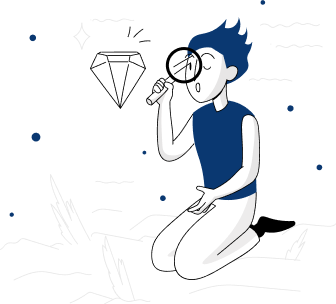
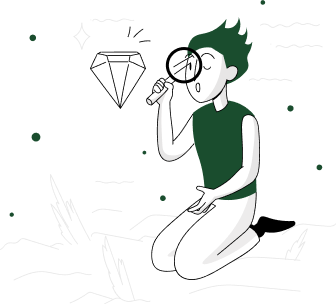
Style modifications

diff --git a/styles/style.css b/styles/style.css
@@ -1,10 +1,10 @@
 @import url('https://fonts.googleapis.com/css2?family=Inter&display=swap');
 
 :root{
-    --cor-primaria: #f3f5fc;
-    --cor-secundaria: #65747D;
-    --cor-terciaria: #0a3871;
-    --cor-hover: #FCEAC4;
+    --cor-primaria: #b8c8be;
+    --cor-secundaria: #000000;
+    --cor-terciaria: #1a4d2e;
+    --cor-hover: #e8edea;
 
     --font-principal: "Inter", sans-serif;
 }
@@ -120,14 +120,20 @@ textarea:focus{
     height: 781px;
     font-size: 1.5rem;
     font-family: var(--font-principal);
-    color: var(--cor-secundaria);
+    color: #96AD9F;
+    background-color: #e8edea;
 }
 
 #copiar{
     margin-bottom: 32px;
 }
 
-#copiar:hover,.decripto:hover{
+#copiar:hover{
+    background-color: var(--cor-primaria);
+    transition: right, left, top, bottom, 100ms ease-in-out;
+}
+
+.decripto:hover{
     background-color: var(--cor-hover);
     transition: right, left, top, bottom, 100ms ease-in-out;
 }
@@ -140,7 +146,7 @@ textarea:focus{
     text-align: center;
     width: 400px;
     height: 944px;
-    background-color: white;
+    background-color: #e8edea;
     border-radius: 32px;
     box-shadow: 0px 5px 16px -5px rgba(59,59,59,0.71);
 }
